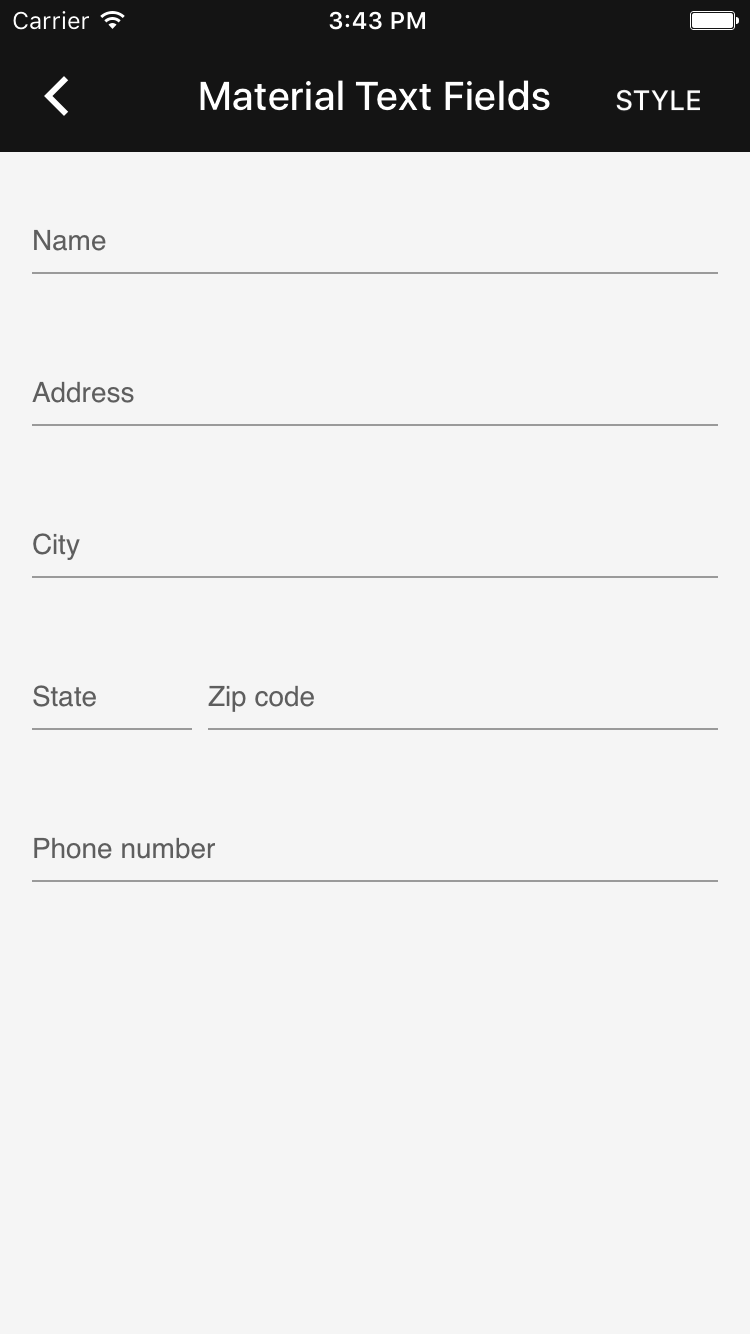
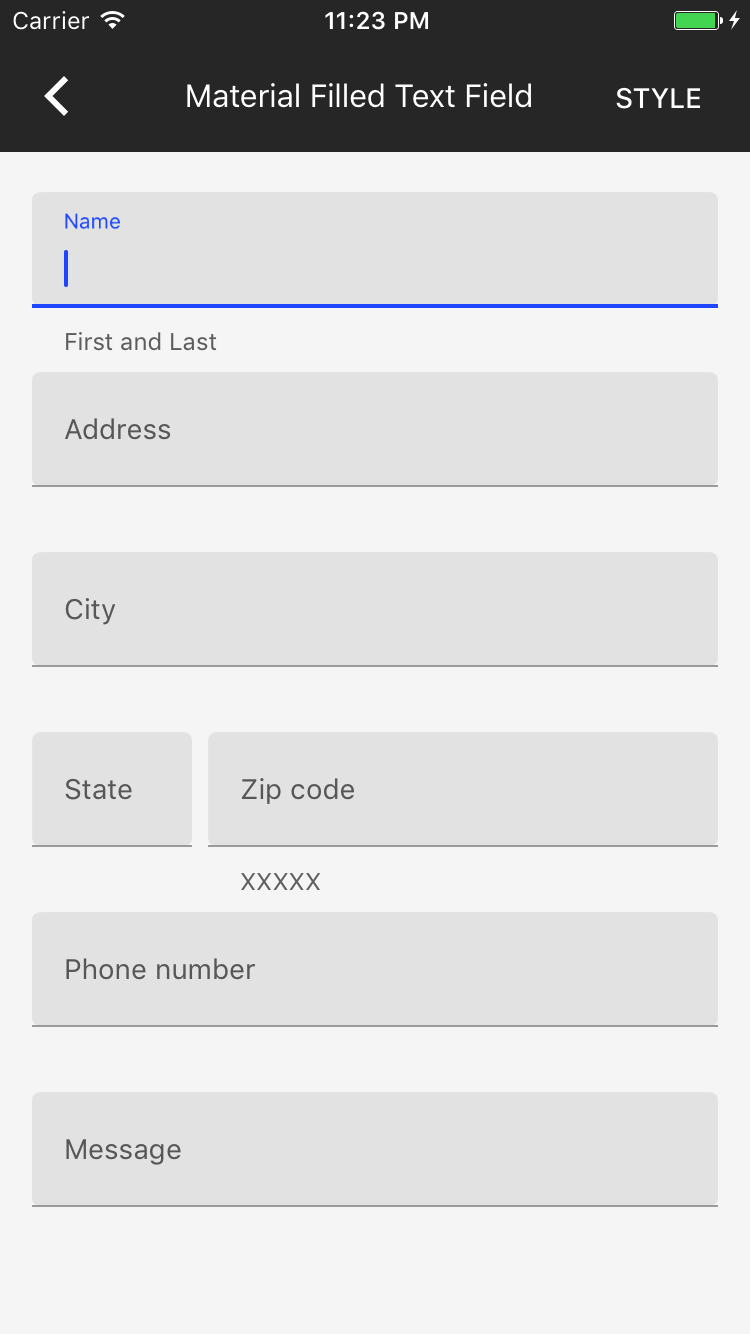
[TextFields] Adding a doc: menu for styles (#2064)
* [TextFields] Beginning to update the docs to show the new controller styles.

* [TextFields] Correcting the name of a file.

* [TextFields] Adding content to controller styles doc.

* [TextFields] Images for the text field styles doc.

* [TextFields] Renaming styling doc.

* [TextFields] Moving doc images.

* [TextFields] Updating image ref paths.

* [TextFields] Text clarity in doc.

* [TextFields] Updated photo.

* [TextFields] Nits of grammar.

* [TextFields] Spelling correction.

diff --git a/components/TextFields/examples/TextFieldKitchenSinkExample.swift b/components/TextFields/examples/TextFieldKitchenSinkExample.swift
@@ -41,7 +41,7 @@ final class TextFieldKitchenSinkSwiftExample: UIViewController {
   let singleLabel: UILabel = {
     let singleLabel = UILabel()
     singleLabel.translatesAutoresizingMaskIntoConstraints = false
-    singleLabel.text = "Single Line Text Fields"
+    singleLabel.text = "Single-line Text Fields"
     singleLabel.font = UIFont.preferredFont(forTextStyle: .headline)
     singleLabel.textColor = UIColor(white: 0, alpha: MDCTypography.headlineFontOpacity())
     singleLabel.numberOfLines = 0
@@ -51,7 +51,7 @@ final class TextFieldKitchenSinkSwiftExample: UIViewController {
   let multiLabel: UILabel = {
     let multiLabel = UILabel()
     multiLabel.translatesAutoresizingMaskIntoConstraints = false
-    multiLabel.text = "Multiline Text Fields"
+    multiLabel.text = "Multi-line Text Fields"
     multiLabel.font = UIFont.preferredFont(forTextStyle: .headline)
     multiLabel.textColor = UIColor(white: 0, alpha: MDCTypography.headlineFontOpacity())
     multiLabel.numberOfLines = 0
@@ -396,7 +396,7 @@ final class TextFieldKitchenSinkSwiftExample: UIViewController {
             textFieldControllerDefaultLeftRightViewFloating]
   }
 
-  // MARK: - Multiline
+  // MARK: - Multi-line
 
   func setupAreaTextFields() -> [MDCTextInputControllerOutlinedTextArea] {
     let textFieldArea = MDCMultilineTextField()
@@ -427,7 +427,7 @@ final class TextFieldKitchenSinkSwiftExample: UIViewController {
     scrollView.addSubview(multilineTextFieldDefaultPlaceholder)
 
     multilineTextFieldDefaultPlaceholder.placeholder =
-        "This is a multiline text field with placeholder"
+        "This is a multi-line text field with placeholder"
     multilineTextFieldDefaultPlaceholder.textView?.delegate = self
 
     let multilineTextFieldControllerDefaultPlaceholder =
@@ -438,7 +438,7 @@ final class TextFieldKitchenSinkSwiftExample: UIViewController {
     multilineTextFieldDefaultCharMax.translatesAutoresizingMaskIntoConstraints = false
     scrollView.addSubview(multilineTextFieldDefaultCharMax)
 
-    multilineTextFieldDefaultCharMax.placeholder = "This is a multiline text field with placeholder"
+    multilineTextFieldDefaultCharMax.placeholder = "This is a multi-line text field with placeholder"
     multilineTextFieldDefaultCharMax.textView?.delegate = self
 
     let multilineTextFieldControllerDefaultCharMax =
@@ -457,7 +457,7 @@ final class TextFieldKitchenSinkSwiftExample: UIViewController {
     multilineTextFieldFullWidth.translatesAutoresizingMaskIntoConstraints = false
     scrollView.addSubview(multilineTextFieldFullWidth)
 
-    multilineTextFieldFullWidth.placeholder = "This is a full width multiline text field"
+    multilineTextFieldFullWidth.placeholder = "This is a full width multi-line text field"
     multilineTextFieldFullWidth.textView?.delegate = self
 
     let multilineTextFieldControllerFullWidth =
@@ -468,7 +468,7 @@ final class TextFieldKitchenSinkSwiftExample: UIViewController {
     scrollView.addSubview(multilineTextFieldFullWidthCharMax)
 
     multilineTextFieldFullWidthCharMax.placeholder =
-        "This is a full width multiline text field with character count"
+        "This is a full width multi-line text field with character count"
     multilineTextFieldFullWidthCharMax.textView?.delegate = self
 
     let multilineTextFieldControllerFullWidthCharMax =
@@ -487,7 +487,7 @@ final class TextFieldKitchenSinkSwiftExample: UIViewController {
 
     multilineTextFieldFloating.textView?.delegate = self
     multilineTextFieldFloating.placeholder =
-        "This is a multiline text field with a floating placeholder"
+        "This is a multi-line text field with a floating placeholder"
 
     let multilineTextFieldControllerFloating =
           MDCTextInputControllerDefault(textInput: multilineTextFieldFloating)
@@ -498,7 +498,7 @@ final class TextFieldKitchenSinkSwiftExample: UIViewController {
 
     multilineTextFieldFloatingCharMax.textView?.delegate = self
     multilineTextFieldFloatingCharMax.placeholder =
-        "This is a multiline text field with a floating placeholder and character count"
+        "This is a multi-line text field with a floating placeholder and character count"
 
     let multilineTextFieldControllerFloatingCharMax =
           MDCTextInputControllerDefault(textInput: multilineTextFieldFloatingCharMax)
@@ -544,7 +544,7 @@ final class TextFieldKitchenSinkSwiftExample: UIViewController {
     unstyledMultilineTextField.translatesAutoresizingMaskIntoConstraints = false
 
     unstyledMultilineTextField.placeholder =
-        "This multiline text field has no controller (unstyled)"
+        "This multi-line text field has no controller (unstyled)"
     unstyledMultilineTextField.leadingUnderlineLabel.text = "Leading label"
     unstyledMultilineTextField.trailingUnderlineLabel.text = "Trailing label"
     unstyledMultilineTextField.textView?.delegate = self

diff --git a/components/TextFields/src/MDCTextInputControllerFullWidth.m b/components/TextFields/src/MDCTextInputControllerFullWidth.m
@@ -758,7 +758,7 @@ static UIFont *_trailingUnderlineLabelFontDefault;
                                       constant:-1 * MDCTextInputFullWidthHorizontalPadding];
   }
 
-  // Multi Line Only
+  // Multi-line Only
   if ([self.textInput isKindOfClass:[MDCMultilineTextField class]]) {
     [self.textInput.leadingUnderlineLabel setContentHuggingPriority:UILayoutPriorityRequired
                                                             forAxis:UILayoutConstraintAxisVertical];
@@ -845,7 +845,7 @@ static UIFont *_trailingUnderlineLabelFontDefault;
     // A height constraint is not necessary for multiline. Its height is calculated in
     // intrinsicContentSize:
   } else {
-    // Single Line Only
+    // Single-line Only
     // .fullWidth
     if (!self.characterCountY) {
       self.characterCountY =

diff --git a/components/TextFields/src/MDCTextInputControllerLegacyFullWidth.m b/components/TextFields/src/MDCTextInputControllerLegacyFullWidth.m
@@ -795,7 +795,7 @@ static UIFont *_trailingUnderlineLabelFontDefault;
                   constant:-1 * MDCTextInputControllerLegacyFullWidthHorizontalPadding];
   }
 
-  // Multi Line Only
+  // Multi-line Only
   if ([self.textInput isKindOfClass:[MDCMultilineTextField class]]) {
     [self.textInput.leadingUnderlineLabel setContentHuggingPriority:UILayoutPriorityRequired
                                                             forAxis:UILayoutConstraintAxisVertical];
@@ -882,7 +882,7 @@ static UIFont *_trailingUnderlineLabelFontDefault;
     // A height constraint is not necessary for multiline. Its height is calculated in
     // intrinsicContentSize:
   } else {
-    // Single Line Only
+    // Single-line Only
     // .fullWidth
     if (!self.characterCountY) {
       self.characterCountY =

diff --git a/components/TextFields/src/MDCTextInputControllerFilled.m b/components/TextFields/src/MDCTextInputControllerFilled.m
@@ -164,7 +164,7 @@ static UIRectCorner _roundedCornersDefault = UIRectCornerAllCorners;
       textInsets.top + [self estimatedTextHeight] + [self beneathInputPadding];
   // When floating placeholders are turned off, the underline will drift up unless this is set. Even
   // tho it is redundant when floating is on, we just keep it on always for simplicity.
-  // Note: This is an issue only on singleline text fields.
+  // Note: This is an issue only on single-line text fields.
   if (!self.underlineBottom) {
     if ([self.textInput isKindOfClass:[MDCMultilineTextField class]]) {
       self.underlineBottom =

diff --git a/components/TextFields/examples/MultilineTextFieldLegacyExample.m b/components/TextFields/examples/MultilineTextFieldLegacyExample.m
@@ -32,7 +32,7 @@
   [super viewDidLoad];
   self.view.backgroundColor = [UIColor colorWithWhite:0.97 alpha:1.0];
 
-  self.title = @"Legacy Multiline Styles";
+  self.title = @"Legacy Multi-line Styles";
 
   self.scrollView = [[UIScrollView alloc] initWithFrame:CGRectZero];
   [self.view addSubview:self.scrollView];
@@ -206,7 +206,7 @@
 #pragma mark - CatalogByConvention
 
 + (NSArray *)catalogBreadcrumbs {
-  return @[ @"Text Field", @"[Legacy] Multiline (Objective C)" ];
+  return @[ @"Text Field", @"[Legacy] Multi-line (Objective C)" ];
 }
 
 + (BOOL)catalogIsPrimaryDemo {

diff --git a/components/FeatureHighlight/examples/FeatureHighlightTypicalUseViewController.m b/components/FeatureHighlight/examples/FeatureHighlightTypicalUseViewController.m
@@ -25,7 +25,7 @@
       [[MDCFeatureHighlightViewController alloc] initWithHighlightedView:_button completion:nil];
   vc.mdc_adjustsFontForContentSizeCategory = YES;
 
-  vc.titleText = @"Hey this is a multiline title for the Feature Highlight";
+  vc.titleText = @"Hey this is a multi-line title for the Feature Highlight";
   vc.bodyText = @"This is the description of the feature highlight view controller.";
   [self presentViewController:vc animated:YES completion:nil];
 }

diff --git a/components/TextFields/src/MDCTextField.h b/components/TextFields/src/MDCTextField.h
@@ -22,7 +22,7 @@
 extern NSString *_Nonnull const MDCTextFieldTextDidSetTextNotification;
 
 /**
-  Material Design compliant single line text input.
+  Material Design compliant single-line text input.
   https://www.google.com/design/spec/components/text-fields.html#text-fields-single-line-text-field
  */
 @interface MDCTextField : UITextField <MDCTextInput>

diff --git a/components/TextFields/src/MDCTextInput.h b/components/TextFields/src/MDCTextInput.h
@@ -192,7 +192,7 @@ typedef NS_ENUM(NSUInteger, MDCTextInputTextInsetsMode) {
 
 @end
 
-/** Common API for Material Design compliant multiline text inputs. */
+/** Common API for Material Design compliant multi-line text inputs. */
 @protocol MDCMultilineTextInput <MDCTextInput>
 
 /**

diff --git a/components/TextFields/README.md b/components/TextFields/README.md
@@ -14,7 +14,11 @@ api_doc_root: true
   <img src="docs/assets/textfields.png" alt="Text Fields" width="375">
 </div>
 
-Text fields allow users to input text into your app. They are a direct connection to your users' thoughts and intentions via on-screen, or physical, keyboard. The Material Design Text Fields take the familiar element to a new level by adding useful animations, character counts, helper text, error states, and styles.
+Text fields allow users to input text into your app. They are a direct connection to your users' thoughts and intentions via on-screen, or physical, keyboard. The Material Design Text Fields take the familiar element to new levels by adding useful animations, character counts, helper text, error states, and styles.
+
+MDC's text fields come in several styles and have a great range of customization. Google's UX research has determined that Outlined and Filled (aka 'text box') styles perform the best by a large margin. So use `MDCTextInputControllerOutlinedField` , `MDCTextInputControllerTextFieldBox`, and `MDCTextInputControllerTextArea` if you can and set colors and fonts that match your company's branding.
+
+For more information on text field styles, and animated images of each style in action, see [Text Field Styles](/styling).
 
 ## Design & API Documentation
 
@@ -34,7 +38,7 @@ Text fields allow users to input text into your app. They are a direct connectio
 
 ### Requirements
 
-- Xcode 7.0 or higher.
+- Xcode 8.0 or higher.
 - iOS SDK version 8.0 or higher.
 
 ### Installation with CocoaPods
@@ -55,13 +59,13 @@ pod install
 
 ### Overview
 
-Text Fields provides both a single-line version based on UITextField and a multi-line version backed by UITextView as well as objects that customize the text fields' behavior and appearance called 'Text Input Controllers'.
+Text Fields provides both a single-line version based on `UITextField` and a multi-line version backed by `UITextView` as well as objects that customize the text fields' behavior and appearance called 'Text Input Controllers'.
 
-The actual components (MDCTextField & MDCMultilineTextField) are 'dumb': they do not have styles, animations, or advanced features. They are designed to be controlled from the outside, via very liberal public API, with a text input controller.
+The actual components (`MDCTextField` & `MDCMultilineTextField`) are 'dumb': they do not have styles, animations, or advanced features. They are designed to be controlled from the outside, via very liberal public API, with a text input controller.
 
-One text input controller is included (MDCTextInputControllerDefault) manipulates the exposed elements of the text field to make placeholders float.
+Most text input controllers included are based on `MDCTextInputControllerDefault` which manipulates the exposed elements of the text field to make placeholders float.
 
-There is also a text input controller for full width forms (MDCTextInputControllerFullWidth). Like MDCTextInputControllerDefault, it also handles errors and character counting.
+There is also a text input controller for full-width forms (`MDCTextInputControllerFullWidth`). Like `MDCTextInputControllerDefault`, it also handles errors and character counting.
 
 Customize the included text input controllers via their parameters or create your own to express your app's brand identity thru typography, color, and animation: if the placeholder should move, add constraints or change the frame. If the trailing label should display validation information, change the text and color it.
 
@@ -71,7 +75,7 @@ This pattern is not a delegation or data source-like relationship but rather a c
 
 #### Text Field
 
-This is a single line text input. It's subclassed from UITextField and supports all the features you'd expect from a UITextField:
+This is a single-line text input. It's subclassed from `UITextField` and supports all the features you'd expect from a `UITextField`:
 
 * Placeholder
 * Overlay views (left and right / leading and trailing)
@@ -84,10 +88,11 @@ as well as new features:
 * Labels below the input
 * Custom layouts
 * Persistable placeholder
+* Border view
 
-#### Multiline Text Field
+#### Multi-line Text Field
 
-This is a multiline line text input. It's subclassed from UIView with an embedded UITextView. It supports all the features of the single line text field and UITextView plus:
+This is a multi-line text input. It's subclassed from `UIView` with an embedded `UITextView`. It supports all the features of the single-line text field and `UITextView` plus:
 
 * Minimum number of lines
 
@@ -110,7 +115,7 @@ Similar to the default text input controller but optimized for full width forms 
 
 ## Usage
 
-A text field that conforms to MDCTextInput can be added to a view hierarchy the same way UITextField and UIView are. But to achieve the animations and presentations defined by the guidelines (floating placeholders, character counts), a controller that conforms to protocol MDCTextInputController must be initialized to manage the text field.
+A text field that conforms to MDCTextInput can be added to a view hierarchy the same way UITextField and UIView are. But to achieve the animations and presentations defined by the guidelines (floating placeholders, character counts), a controller that conforms to protocol `MDCTextInputController` must be initialized to manage the text field.
 
 **NOTE:** Expect to interact with _both the text field_ (for the traditional API) _and the controller_ (for changes affecting the presentation and state).
 
@@ -132,7 +137,7 @@ import MaterialComponents.MaterialTextFields
 ```
 <!--</div>-->
 
-## Examples - Single Line
+## Examples - Single-line
 
 ### Text Field with Floating Placeholder
 

diff --git a/components/TextFields/styling/README.md b/components/TextFields/styling/README.md
@@ -1,0 +1,77 @@
+#  Text field styles
+
+MDC's text fields are designed to be styled by controllers implementing the `MDCTextInputController` protocol. The following controllers are included in the text field component and each one is highly customizable to express your app's branding and styling.
+
+Some of the classes are marked as "Preferred". These are known, through extensive UX research, to have big performance gains in usability.
+
+Two of the classes include "Legacy" in their names. They are included to support older designs and avoid breaking changes that come from the size of newer styles.
+
+## MDCTextInputControllerOutlined (Preferred)
+
+![MDCTextInputControllerOutlined](docs/assets/MDCTextInputControllerOutlined.gif)
+
+- Stroked border
+- Border-crossing, floating placeholder
+- No fill
+
+### Notes:
+This class is intended for singleline text fields only. For a visually compatible multiline controller, use `MDCTextInputControllerOutlinedTextArea`.
+
+## MDCTextInputControllerFilled (Preferred)
+
+![MDCTextInputControllerFilled](docs/assets/MDCTextInputControllerFilled.gif)
+
+- Optional stroked border / underline
+- Floating placeholder
+- Colored fill
+
+## MDCTextInputControllerOutlinedTextArea (Preferred)
+
+- Stroked border
+- Border-crossing, floating placeholder
+- No fill
+
+### Notes:
+This class is intended for multiline text fields only. For a visually compatible singleline controller, use `MDCTextInputControllerOutlined`.
+
+## MDCTextInputControllerDefault
+
+![MDCTextInputControllerDefault](docs/assets/MDCTextInputControllerDefault.gif)
+
+- Underline
+- Optional floating of placeholder (default is to float)
+- No fill
+- "Classic" early Material Design look
+
+## MDCTextInputControllerFullWidth
+
+- No border / underline
+- Inline placeholder
+- Optional fill
+- No leading underline label
+- Trailing underline label is inline with placeholder
+
+## MDCTextInputControllerLegacyDefault
+
+![MDCTextInputControllerLegacyDefault](docs/assets/MDCTextInputControllerLegacyDefault.gif)
+
+- Underline
+- Optional floating of placeholder (default is to float)
+- No fill
+- "Classic" early Material Design look
+- Legacy clear button (X)
+
+### Notes:
+This class has different layout behavior and sizing than `MDCTextInputControllerDefault` but is included for backward compatibility.
+
+## MDCTextInputControllerLegacyFullWidth
+
+- No border / underline
+- Inline placeholder
+- Optional fill
+- No leading underline label
+- Trailing underline label is inline with placeholder
+- Legacy clear button (X)
+
+### Notes:
+This class has different layout behavior and sizing than `MDCTextInputControllerFullWidth` but is included for backward compatibility.
